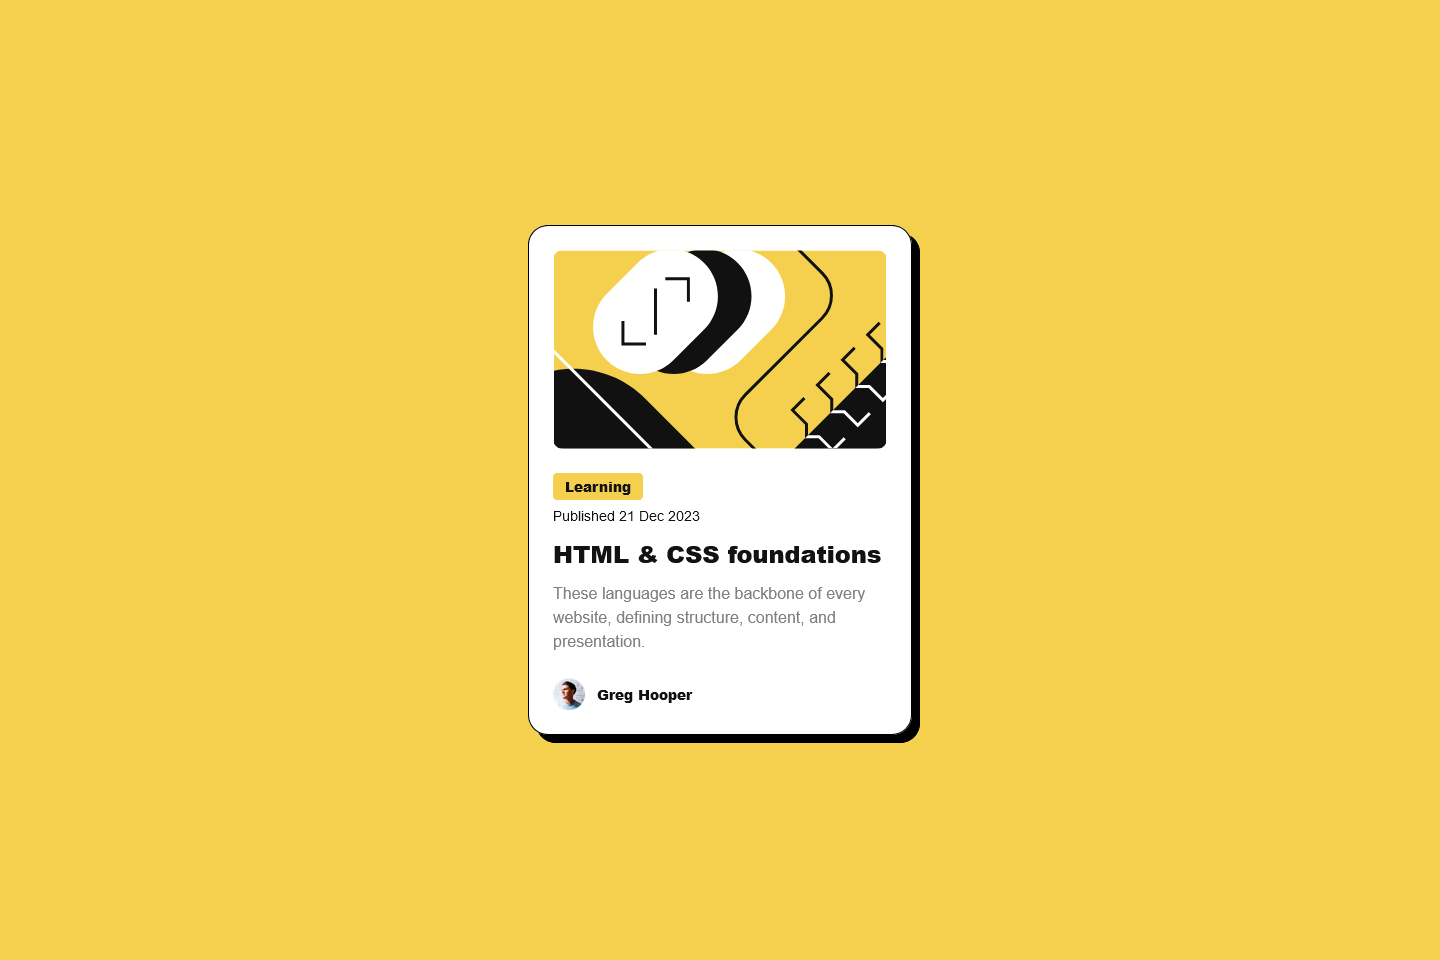
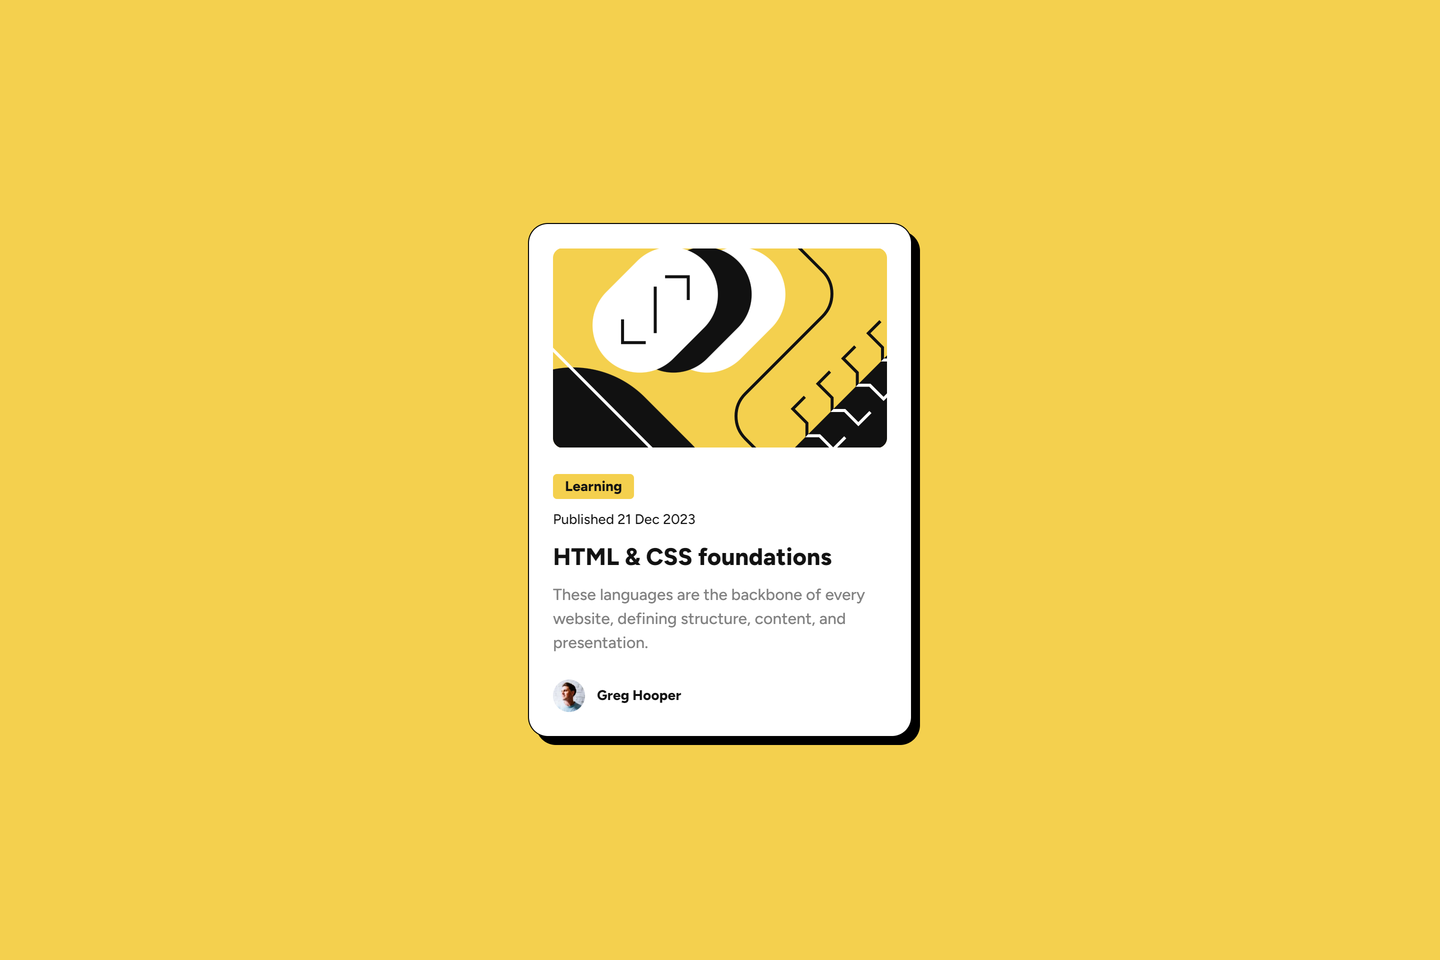
Updated the solution image once again again

diff --git a/styles/styles.css b/styles/styles.css
@@ -57,7 +57,8 @@ body {
 
 .tag {
     font-size: var(--font-size-info);
-    font-weight: 900;
+    line-height: var(--line-height-info);
+    font-weight: 800;
     background-color: var(--clr-Yellow);
     padding: .25rem .75rem;
     border-radius: .25rem;
@@ -70,6 +71,7 @@ body {
 .blog-date {
     display: block;
     font-size: var(--font-size-info);
+    line-height: var(--line-height-info);
     margin-bottom: .75rem;
 }
 
@@ -77,7 +79,7 @@ body {
     display: block;
     font-size: var(--font-size-h2);
     color: var(--clr-Black);
-    font-weight: 900;
+    font-weight: 800;
     margin-bottom: .75rem;
 }
 
@@ -89,7 +91,7 @@ body {
 
 .author {
     font-size: var(--font-size-info);
-    font-weight: 900;
+    font-weight: 800;
 }
 
 .article-avatar {
@@ -117,14 +119,17 @@ body {
 
     .tag {
         font-size: var(--font-size-info-s);
+        line-height: var(--line-height-info-s);
     }
 
     .blog-date {
         font-size: var(--font-size-info-s);
+        line-height: var(--line-height-info-s);
     }
 
     .blog-title {
         font-size: var(--font-size-h2-s);
+        line-height: var(--line-height-h2-s);
     }
 
     .blog-description {
